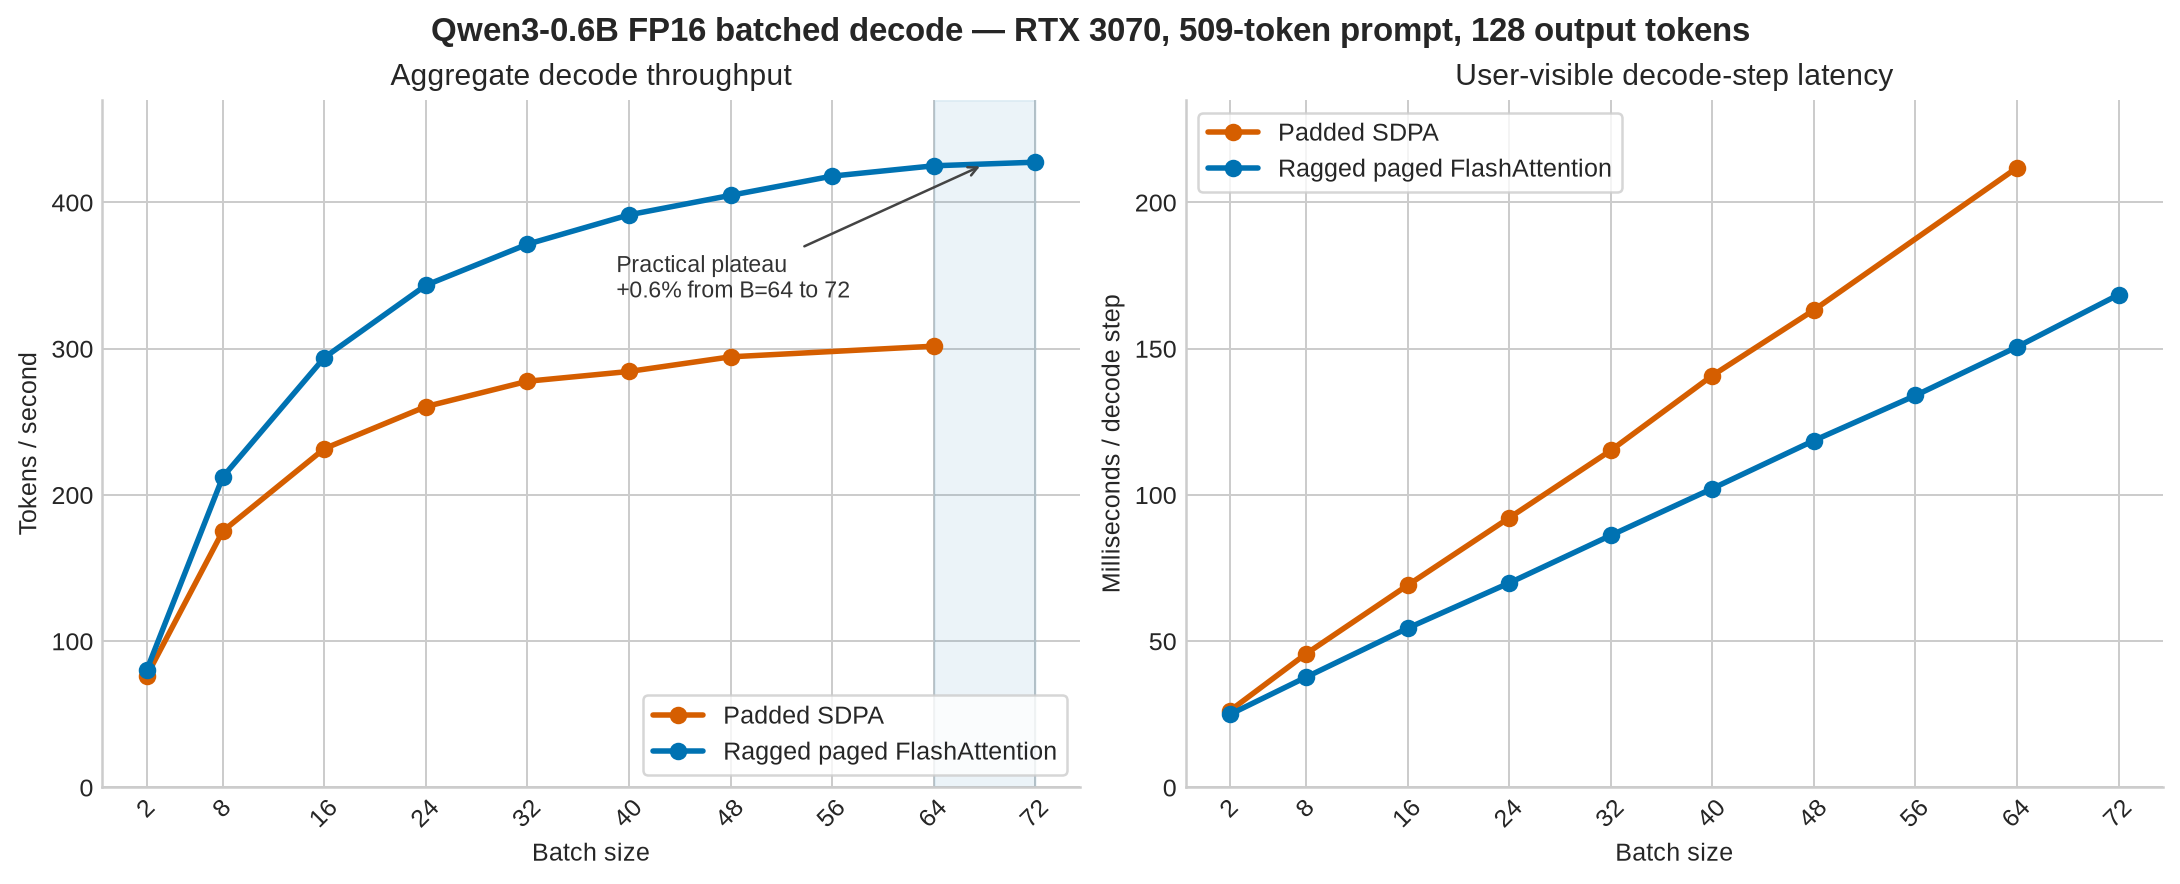
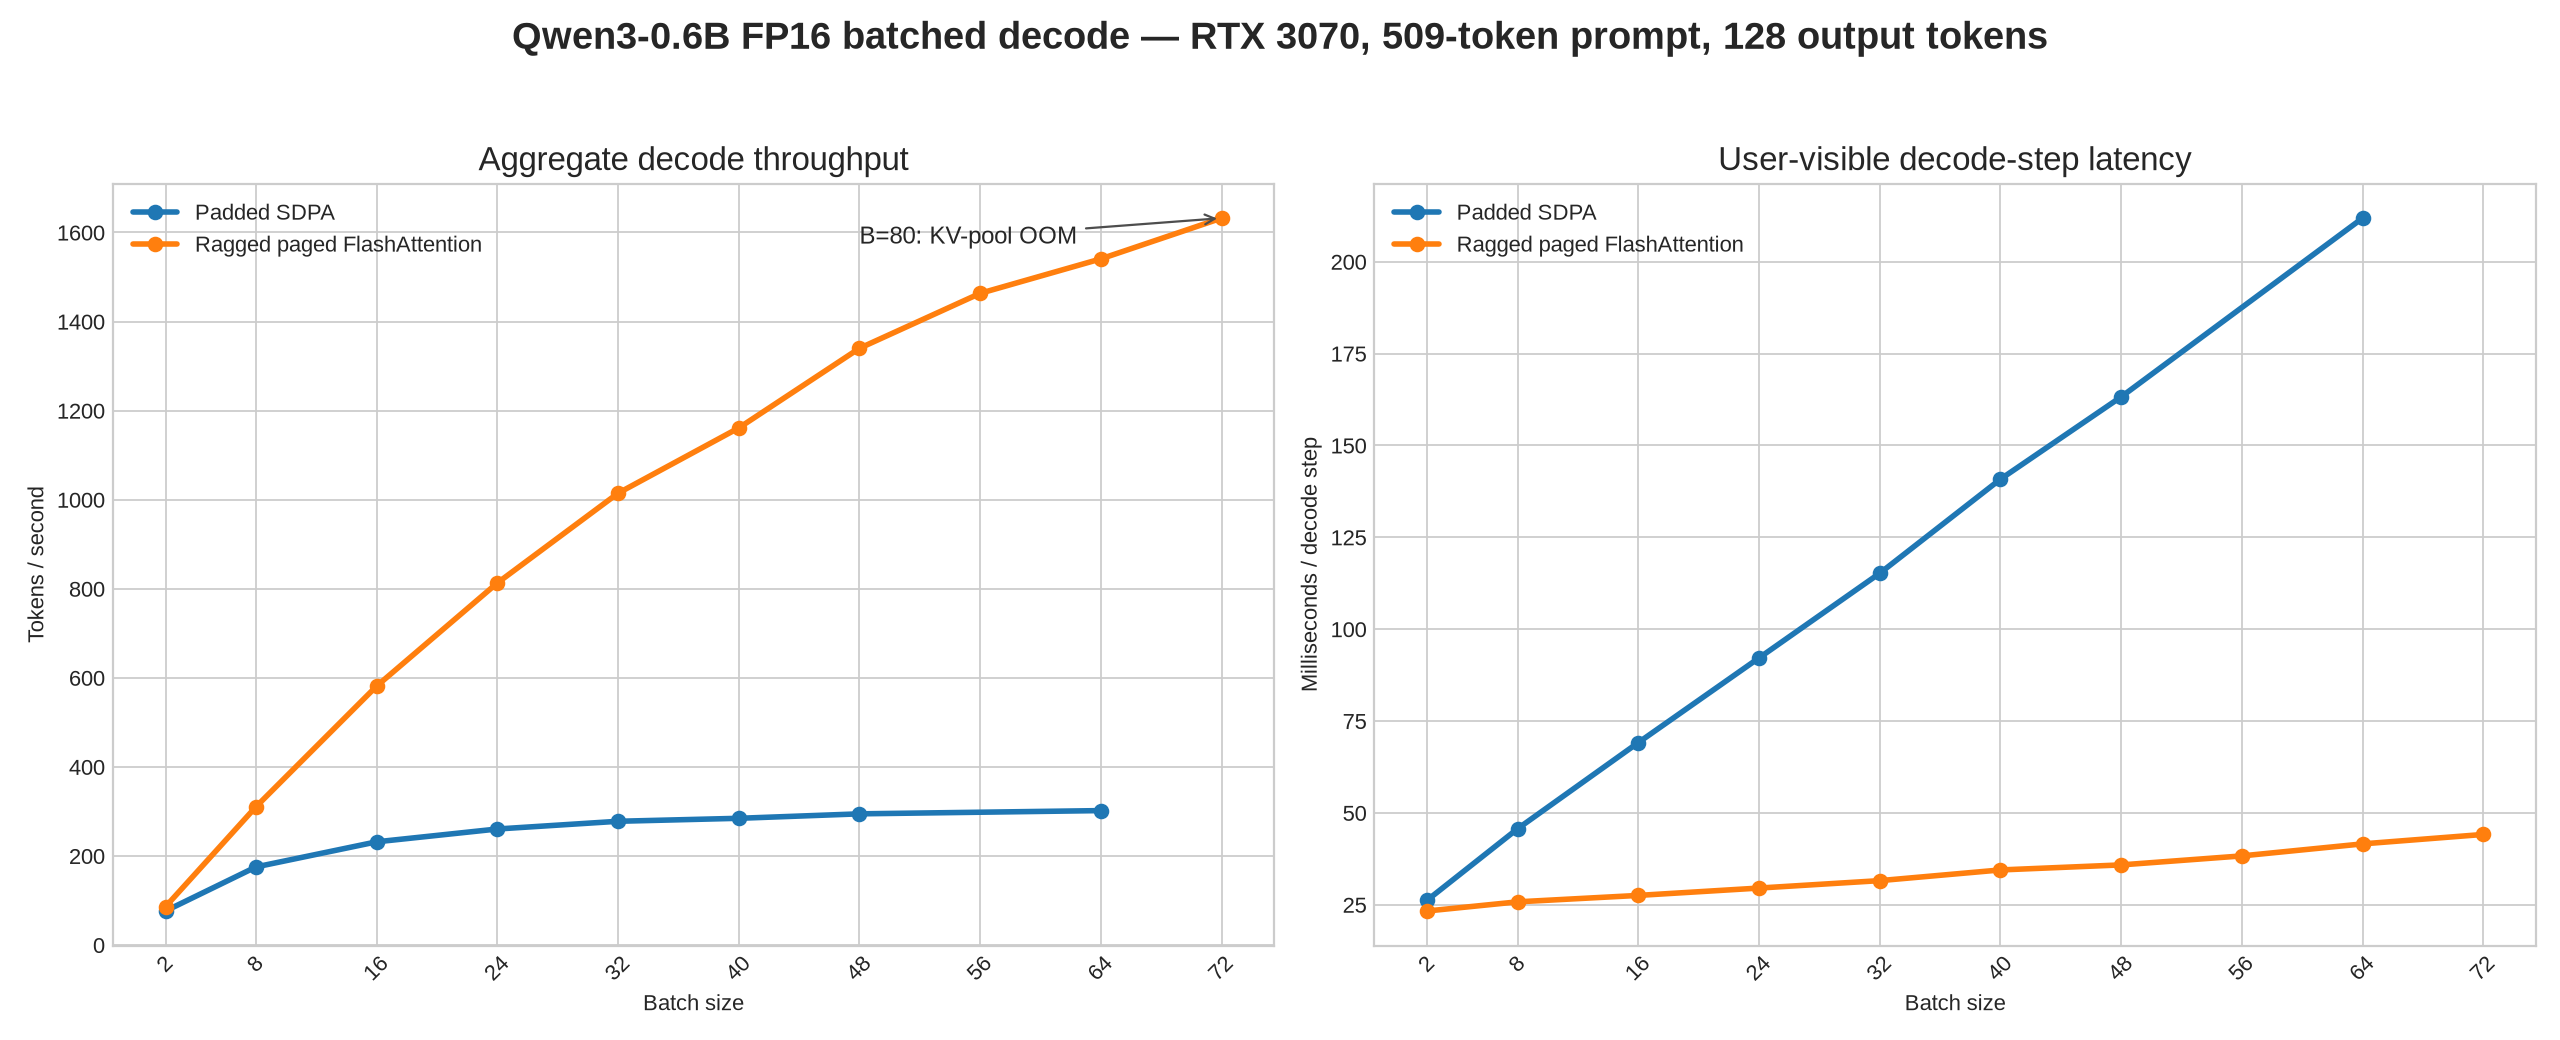
Vectorize paged batch KV cache writes
Build and reuse each layer adapter's batched block table, then write all requests' key and value states directly by physical block and offset with one operation per tensor. Use the same representation-aligned index_put addressing for single-request paged writes and document the batch-cache tensor contracts. Refresh the long-context batched decode results and performance figure to show the resulting scaling and memory-bound limit.

diff --git a/mini_llm/cache/batch.py b/mini_llm/cache/batch.py
@@ -10,15 +10,24 @@ from mini_llm.cache.contracts import LayerKVCache, LayerKVCacheView
 
 
 class BatchLayerKVCache:
-    """Combine one layer from each request for batched attention."""
+    """One layer KV cache for a batch of independent requests."""
 
     def __init__(self, caches: Sequence[LayerKVCache]) -> None:
+        """Create a batch from requests' caches of the same decoder layer.
+
+        Args:
+            caches: Per-request layer caches in batch order.
+        """
+
         if not caches:
             raise ValueError("a cache batch must contain at least one request")
         self.caches = tuple(caches)
+        self._block_table: torch.Tensor | None = None
 
     @property
     def length(self) -> int:
+        """Return the longest logical sequence length in the batch."""
+
         return max(cache.length for cache in self.caches)
 
     def write(
@@ -27,11 +36,83 @@ class BatchLayerKVCache:
         values: torch.Tensor,
         position_ids: torch.Tensor,
     ) -> None:
+        """Write new states into every request cache.
+
+        Args:
+            keys: Key states shaped ``[batch, kv_heads, tokens, head_dim]``.
+            values: Value states with the same shape as ``keys``.
+            position_ids: Logical cache positions shaped ``[batch, tokens]``.
+        """
+
         if keys.shape[0] != len(self.caches):
             raise ValueError(
                 f"K/V batch size {keys.shape[0]} does not match "
                 f"{len(self.caches)} caches"
             )
+        from mini_llm.cache.paged import PagedLayerKVCache
+
+        if all(isinstance(cache, PagedLayerKVCache) for cache in self.caches):
+            first = self.caches[0]
+            pool = first.handle.pool
+            if any(
+                cache.handle.pool is not pool
+                or cache.layer_index != first.layer_index
+                for cache in self.caches
+            ):
+                raise ValueError(
+                    "a paged cache batch must share one pool and layer"
+                )
+            token_count = keys.shape[2]
+            expected = (
+                len(self.caches),
+                pool.num_key_value_heads,
+                token_count,
+                pool.head_dim,
+            )
+            if tuple(keys.shape) != expected or tuple(values.shape) != expected:
+                raise ValueError(
+                    f"new K/V must both have shape {expected}, got "
+                    f"{tuple(keys.shape)} and {tuple(values.shape)}"
+                )
+            if keys.dtype != pool.dtype or values.dtype != pool.dtype:
+                raise ValueError(f"new K/V dtype must match cache dtype {pool.dtype}")
+            if keys.device != pool.device or values.device != pool.device:
+                raise ValueError(
+                    f"new K/V device must match cache device {pool.device}"
+                )
+            ends = [cache.length + token_count for cache in self.caches]
+            if any(
+                end > cache.handle.capacity
+                for cache, end in zip(self.caches, ends)
+            ):
+                raise ValueError("KV cache capacity exceeded")
+
+            cache_view = self.view(gathered=False)  # get the block table for the batch
+            assert cache_view.block_table is not None
+            # Map every logical token position to its request's physical slot
+            # in the shared block pool.
+            table_indices = torch.div(
+                position_ids, pool.block_size, rounding_mode="floor"
+            )
+            block_offsets = torch.remainder(position_ids, pool.block_size)
+            # Get the physical block id for each new token position in the batch.
+            block_ids = cache_view.block_table.gather(1, table_indices)
+            source_keys = keys.transpose(1, 2)
+            source_values = values.transpose(1, 2)
+            with torch.no_grad():
+                # Address the block and its token offset directly while still
+                # writing the whole request batch with one operation per K/V.
+                pool.keys[first.layer_index].index_put_(
+                    (block_ids, block_offsets), source_keys
+                )
+                pool.values[first.layer_index].index_put_(
+                    (block_ids, block_offsets), source_values
+                )
+            # Device writes do not update the host-side logical cache lengths.
+            for cache, end in zip(self.caches, ends):
+                cache.handle._layer_lengths[first.layer_index] = end
+            return
+
         for index, cache in enumerate(self.caches):
             cache.write(
                 keys[index : index + 1],
@@ -40,11 +121,19 @@ class BatchLayerKVCache:
             )
 
     def view(self, *, gathered: bool) -> LayerKVCacheView:
+        """Return the batched representation consumed by attention.
+
+        Args:
+            gathered: If true, return zero-padded contiguous K/V tensors. If
+                false, return the shared physical paged pool and a padded block
+                table without gathering K/V states.
+        """
+
         views = [cache.view(gathered=gathered) for cache in self.caches]
         if not gathered:
             # Paged cache, share one KV pool
-            keys = views[0].keys
-            values = views[0].values
+            keys = views[0].keys  # a ref to all keys in the shared pool
+            values = views[0].values  # a ref to all values in the shared pool
             if any(
                 view.block_table is None
                 or view.keys is not keys
@@ -54,20 +143,21 @@ class BatchLayerKVCache:
                 raise ValueError(
                     "a scattered cache batch must share one paged K/V pool"
                 )
-            block_count = max(view.block_table.shape[1] for view in views)
-            block_table = views[0].block_table.new_zeros(
-                (len(views), block_count)
-            )
-            for index, view in enumerate(views):
-                block_table[index, : view.block_table.shape[1]].copy_(
-                    view.block_table[0]
+            if self._block_table is None:
+                block_count = max(view.block_table.shape[1] for view in views)
+                self._block_table = views[0].block_table.new_zeros(
+                    (len(views), block_count)
                 )
+                for index, view in enumerate(views):
+                    self._block_table[index, : view.block_table.shape[1]].copy_(
+                        view.block_table[0]
+                    )
             return LayerKVCacheView(
                 keys=keys,
                 values=values,
                 # Entries beyond each request's length are ignored, so block
                 # zero is safe padding for shorter tables.
-                block_table=block_table,
+                block_table=self._block_table,
                 capacity=max(view.capacity for view in views),
             )
 
@@ -95,6 +185,18 @@ class BatchLayerKVCache:
         values: torch.Tensor,
         position_ids: torch.Tensor,
     ) -> tuple[torch.Tensor, torch.Tensor]:
+        """Write new states and return zero-padded contiguous K/V tensors.
+
+        Args:
+            keys: Key states shaped ``[batch, kv_heads, tokens, head_dim]``.
+            values: Value states with the same shape as ``keys``.
+            position_ids: Logical cache positions shaped ``[batch, tokens]``.
+
+        Returns:
+            The gathered key and value tensors, each padded to the longest
+            sequence in the batch.
+        """
+
         self.write(keys, values, position_ids)
         view = self.view(gathered=True)
         return view.keys, view.values

diff --git a/mini_llm/cache/paged.py b/mini_llm/cache/paged.py
@@ -229,12 +229,11 @@ class PagedLayerKVCache:
             )
             block_offsets = torch.remainder(positions, pool.block_size)
             block_ids = self.handle.block_table.index_select(0, table_indices)
-            slots = block_ids * pool.block_size + block_offsets
-            pool.keys[self.layer_index].flatten(0, 1).index_copy_(
-                0, slots, source_keys
+            pool.keys[self.layer_index].index_put_(
+                (block_ids, block_offsets), source_keys
             )
-            pool.values[self.layer_index].flatten(0, 1).index_copy_(
-                0, slots, source_values
+            pool.values[self.layer_index].index_put_(
+                (block_ids, block_offsets), source_values
             )
         self.handle._layer_lengths[self.layer_index] = end
 

diff --git a/doc/batch.md b/doc/batch.md
@@ -42,41 +42,43 @@ excluded from these decode measurements.
 
 | Batch | Padded SDPA step | Padded SDPA tok/s | Ragged paged step | Ragged paged tok/s | Throughput gain |
 | ---: | ---: | ---: | ---: | ---: | ---: |
-| 2 | 26.22 ms | 76.25 | 24.96 ms | 80.10 | 5.0% |
-| 8 | 45.68 ms | 175.22 | 37.69 ms | 212.28 | 21.2% |
-| 16 | 69.12 ms | 231.63 | 54.44 ms | 293.88 | 26.9% |
-| 24 | 92.16 ms | 260.39 | 69.90 ms | 343.35 | 31.9% |
-| 32 | 115.20 ms | 277.70 | 86.16 ms | 371.41 | 33.7% |
-| 40 | 140.80 ms | 284.39 | 102.17 ms | 391.48 | 37.7% |
-| 48 | 163.20 ms | 294.40 | 118.57 ms | 404.81 | 37.5% |
-| 64 | 211.84 ms | 301.68 | 150.59 ms | 425.01 | 40.9% |
+| 2 | 26.22 ms | 76.25 | 23.28 ms | 85.92 | 12.7% |
+| 8 | 45.68 ms | 175.22 | 25.77 ms | 310.45 | 77.2% |
+| 16 | 69.12 ms | 231.63 | 27.52 ms | 581.50 | 151.0% |
+| 24 | 92.16 ms | 260.39 | 29.52 ms | 812.99 | 212.2% |
+| 32 | 115.20 ms | 277.70 | 31.54 ms | 1014.50 | 265.3% |
+| 40 | 140.80 ms | 284.39 | 34.45 ms | 1161.04 | 308.3% |
+| 48 | 163.20 ms | 294.40 | 35.82 ms | 1339.92 | 355.1% |
+| 64 | 211.84 ms | 301.68 | 41.54 ms | 1540.67 | 410.7% |
 
 Additional ragged-paged measurements locate its practical saturation point:
 
 | Batch | Decode step | Decode tok/s | Reserved request cache |
 | ---: | ---: | ---: | ---: |
-| 56 | 133.98 ms | 417.96 | 3.83 GiB |
-| 64 | 150.59 ms | 425.01 | 4.38 GiB |
-| 72 | 168.43 ms | 427.48 | 4.92 GiB |
+| 56 | 38.27 ms | 1463.30 | 3.83 GiB |
+| 64 | 41.54 ms | 1540.67 | 4.38 GiB |
+| 72 | 44.11 ms | 1632.14 | 4.92 GiB |
 
-Batch 64 to 72 increases aggregate throughput by only 0.6%, so this workload
-practically saturates around batch 64. Batch 80 could not allocate its fixed KV
-pool on the 8 GiB GPU.
+Batch 64 to 72 increases aggregate throughput by another 5.9%. The measured
+range therefore reaches the GPU memory limit before showing a clear throughput
+plateau: batch 80 could not allocate its fixed KV pool on the 8 GiB GPU.
 
 ## Interpretation
 
 The improvement grows with batch size because the padded path creates
 increasing amounts of redundant K/V traffic. It gathers pages, constructs a
-contiguous padded batch, and expands GQA K/V heads before SDPA. Direct paged
-attention reads the original cache through each request's block table and
-logical length, reaching 40.9% higher throughput at batch 64.
+contiguous padded batch, and expands GQA K/V heads before SDPA. The ragged path
+reads the original cache through each request's block table and logical length.
+It also writes the new K/V states for the whole batch with one operation per
+tensor and layer instead of one operation per request. Together these avoid the
+dominant request-scaled copies and reach 410.7% higher throughput at batch 64.
 
 Paged attention can show lower sampled GPU utilization while achieving higher
 throughput. Allocated VRAM and GPU utilization measure different things: the
 fixed KV pool keeps VRAM occupied for its lifetime, whereas utilization reports
 how often kernels execute during the sampling interval. Removing copies makes
-kernels finish sooner and exposes eager launch gaps, per-request cache writes,
-block-table construction, and host-side sampling.
+kernels finish sooner and exposes eager launch gaps, block-table construction,
+and host-side sampling.
 
 The benchmark's cache column reports active request reservations, not the
 physical pool allocation. With `max_seq_len=704`, the batch-64 physical pool is
@@ -86,5 +88,5 @@ activations, attention workspace, and allocator-retained buffers consume the
 rest of VRAM.
 
 The next optimization targets the remaining eager overhead: reuse batched
-block-table metadata, vectorize cache writes, then capture fixed batch/metadata
-buckets with CUDA graphs.
+block-table metadata across layers and decode steps, then capture fixed
+batch/metadata buckets with CUDA graphs.
